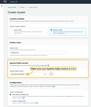
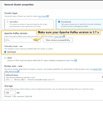
MSK update

diff --git a/_includes/templates/install/aws/msk-setup.md b/_includes/templates/install/aws/msk-setup.md
@@ -3,7 +3,7 @@ Kafka is useful to survive peak loads and hardware failures to make sure that al
 
 Please open AWS console and navigate to MSK, press `Create cluster` button and choose `Custom create` mode.
 
-* Make sure your Apache Kafka version is 2.6.x;
+* Make sure your Apache Kafka version is 3.7.x;
 * Make sure your MSK instance is accessible from the ThingsBoard cluster.
   The easiest way to achieve this is to deploy the MSK instance in the same VPC.
   We also recommend to use private subnets. This way it will be nearly impossible to accidentally expose it to the internet;

diff --git a/docs/user-guide/install/cluster/aws-microservices-setup.md b/docs/user-guide/install/cluster/aws-microservices-setup.md
@@ -33,7 +33,7 @@ rdsEndpointUrl:
 mskSetup:
     0:
         image: /images/install/cloud/aws/msk-1.png
-        title: 'Make sure your Apache Kafka version is 2.6.x.'
+        title: 'Make sure your Apache Kafka version is 3.7.x.'
     1:
         image: /images/install/cloud/aws/msk-2.png
         title: 'Make sure your MSK instance is accessible from the ThingsBoard cluster. The easiest way to achieve this is to deploy the MSK instance in the same VPC. We also recommend to use private subnets. This way it will be nearly impossible to accidentally expose it to the internet.'

diff --git a/docs/user-guide/install/pe/cluster/aws-microservices-setup.md b/docs/user-guide/install/pe/cluster/aws-microservices-setup.md
@@ -33,7 +33,7 @@ rdsEndpointUrl:
 mskSetup:
     0:
         image: /images/install/cloud/aws/msk-1.png
-        title: 'Make sure your Apache Kafka version is 2.6.x.'
+        title: 'Make sure your Apache Kafka version is 3.7.x.'
     1:
         image: /images/install/cloud/aws/msk-2.png
         title: 'Make sure your MSK instance is accessible from the ThingsBoard cluster. The easiest way to achieve this is to deploy the MSK instance in the same VPC. We also recommend to use private subnets. This way it will be nearly impossible to accidentally expose it to the internet.'
